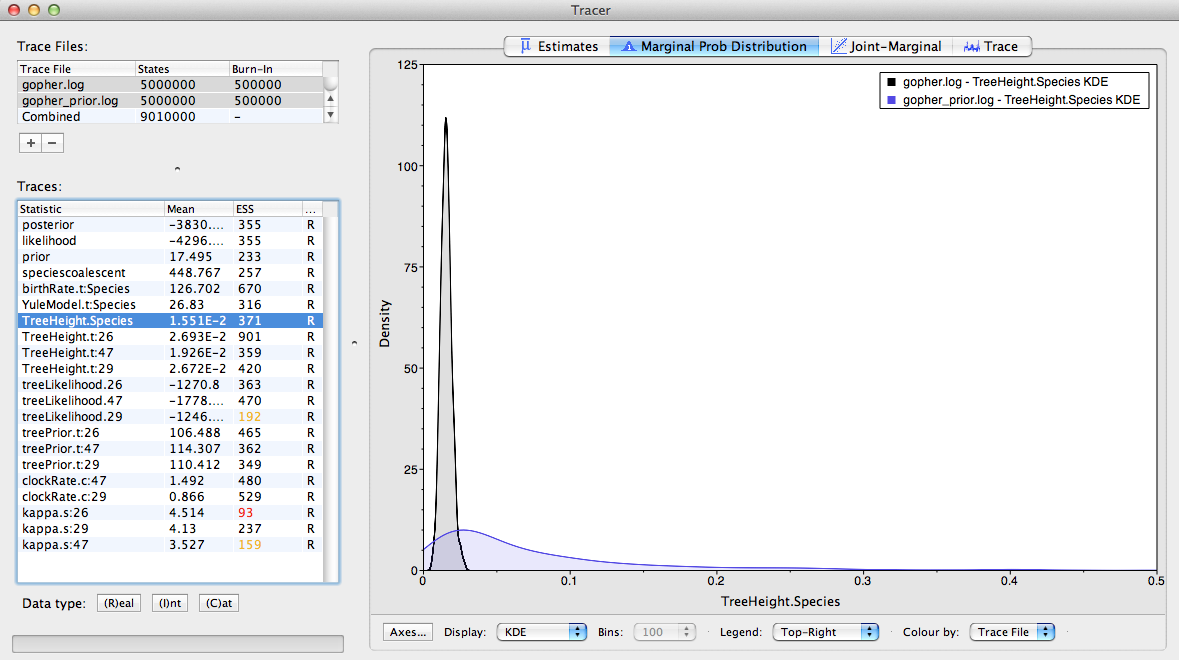
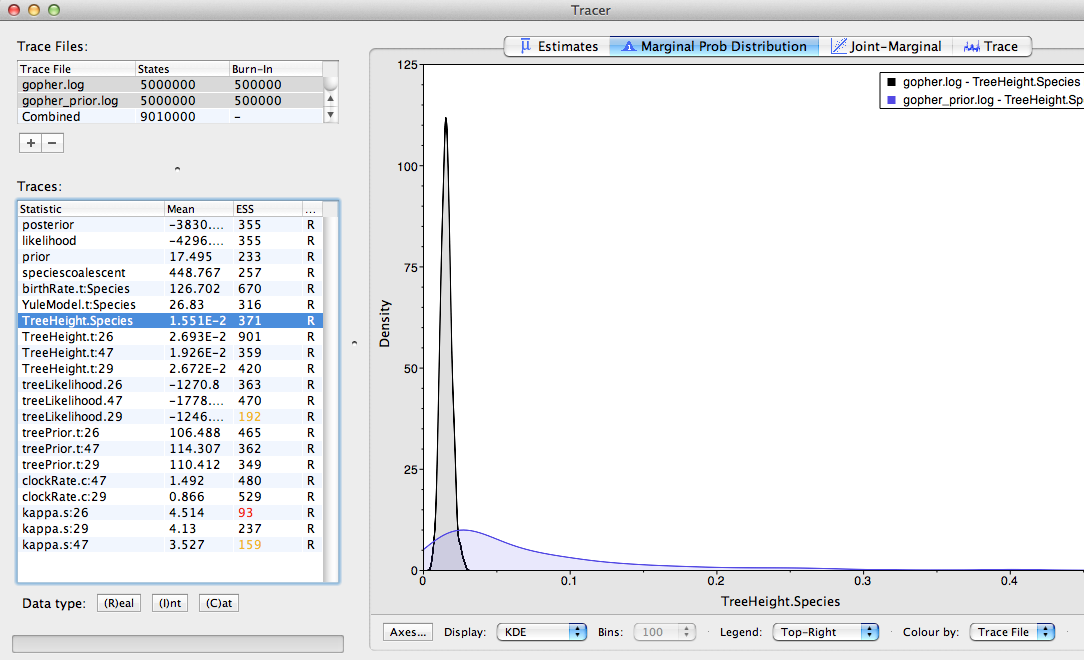
adjust figures

diff --git a/main.tex b/main.tex
@@ -530,7 +530,7 @@ You can also compare the log files from both analyses by loading the log file fr
 
 \begin{figure}[h]
 \centering
-\includeimage[width=\textwidth]{figures/Tracer_compareToPrior}
+\includeimage[width=0.9\textwidth]{figures/Tracer_compareToPrior}
 \caption{\label{fig.tracerPrior} Tracer showing the comparison between the prior and posterior distribution of the species tree height.}
 \end{figure}
 

diff --git a/README.md b/README.md
@@ -468,7 +468,7 @@ You can also compare the log files from both analyses by loading the log file fr
 
 <figure>
 	<a id="fig.tracerPrior"></a>
-	<img  src="figures/Tracer_compareToPrior.png" alt="">
+	<img style="width:90.0%;" src="figures/Tracer_compareToPrior.png" alt="">
 	<figcaption>Figure 18: Tracer showing the comparison between the prior and posterior distribution of the species tree height.</figcaption>
 </figure>
 <br>
